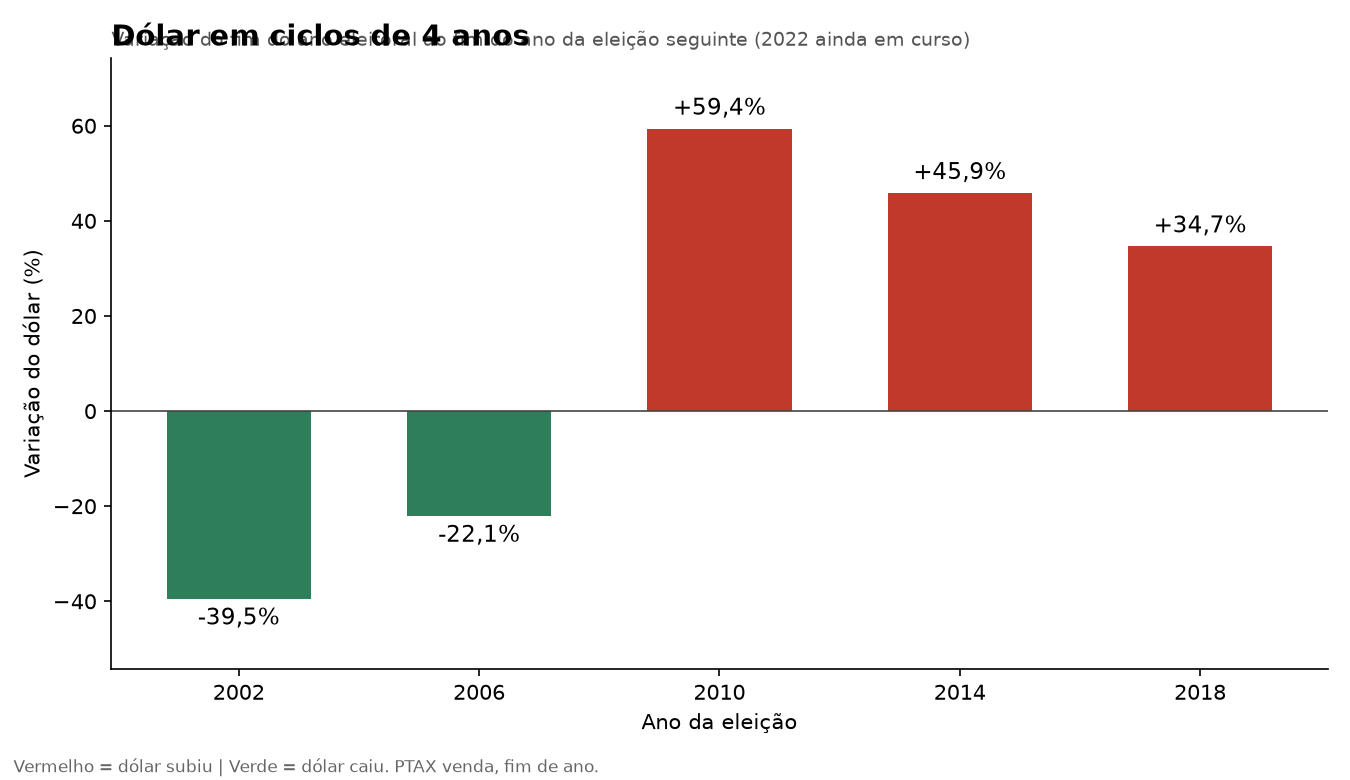
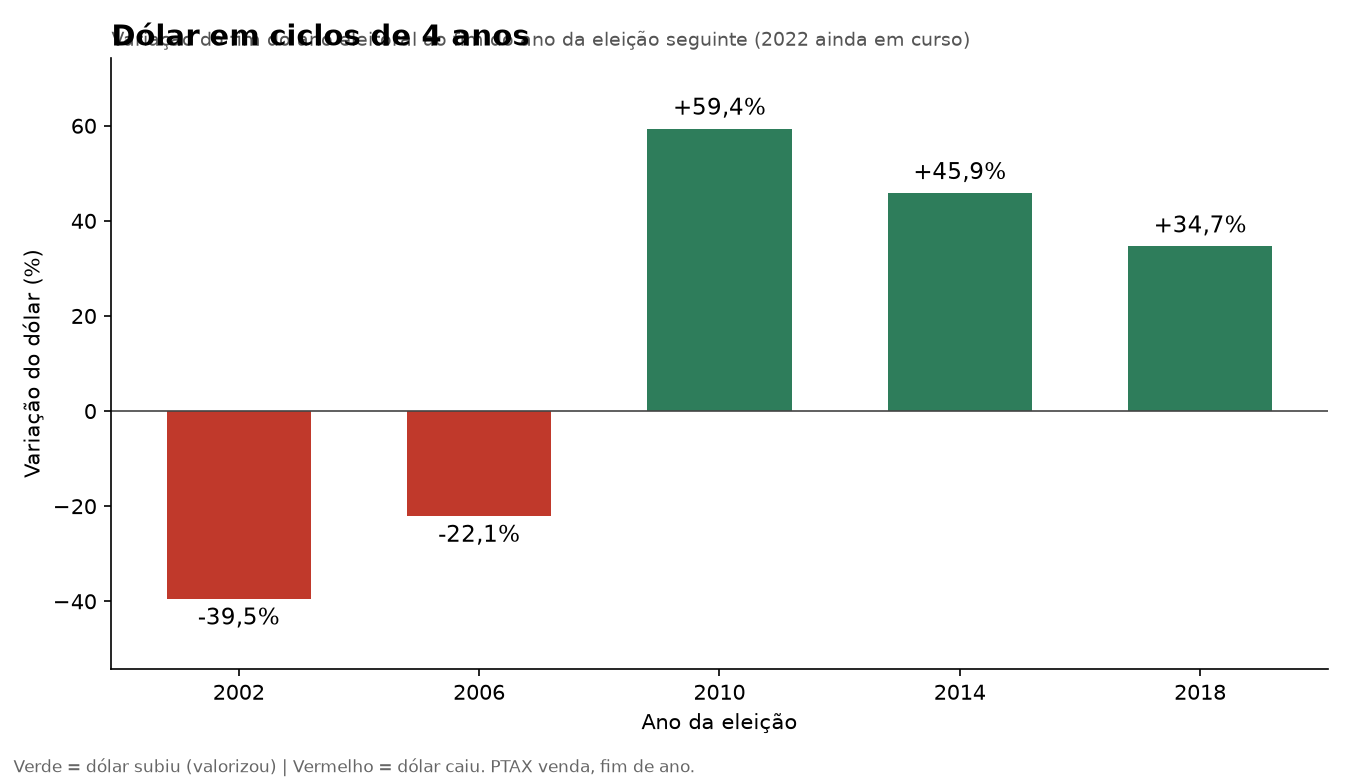
Inverte cores dos gráficos: verde para alta, vermelho para queda
Claude-Session: https://claude.ai/code/session_0199Y78iJYXbJq94ojXAjU9F

diff --git a/dolar_pos_eleicao.py b/dolar_pos_eleicao.py
@@ -24,7 +24,7 @@ def grafico(dados, titulo, sub, arq, rot):
     fig, ax = plt.subplots(figsize=(9, 5.2), dpi=150)
     xs = [str(a) for a in dados]
     vals = list(dados.values())
-    cores = ["#c0392b" if v > 0 else "#2e7d5b" for v in vals]
+    cores = ["#2e7d5b" if v > 0 else "#c0392b" for v in vals]
     bars = ax.bar(xs, vals, color=cores, width=.6)
     for b, v in zip(bars, vals):
         ax.annotate(f"{v:+.1f}%".replace(".", ","), (b.get_x() + b.get_width() / 2, v),
@@ -36,7 +36,7 @@ def grafico(dados, titulo, sub, arq, rot):
     ax.set_xlabel("Ano da eleição"); ax.set_ylabel(rot)
     ax.margins(y=.15)
     for s in ("top", "right"): ax.spines[s].set_visible(False)
-    fig.text(.01, .01, "Vermelho = dólar subiu | Verde = dólar caiu. PTAX venda, fim de ano.",
+    fig.text(.01, .01, "Verde = dólar subiu (valorizou) | Vermelho = dólar caiu. PTAX venda, fim de ano.",
              fontsize=8, color="#666")
     fig.tight_layout(rect=(0, .03, 1, 1)); fig.savefig(arq); plt.close(fig)
 
